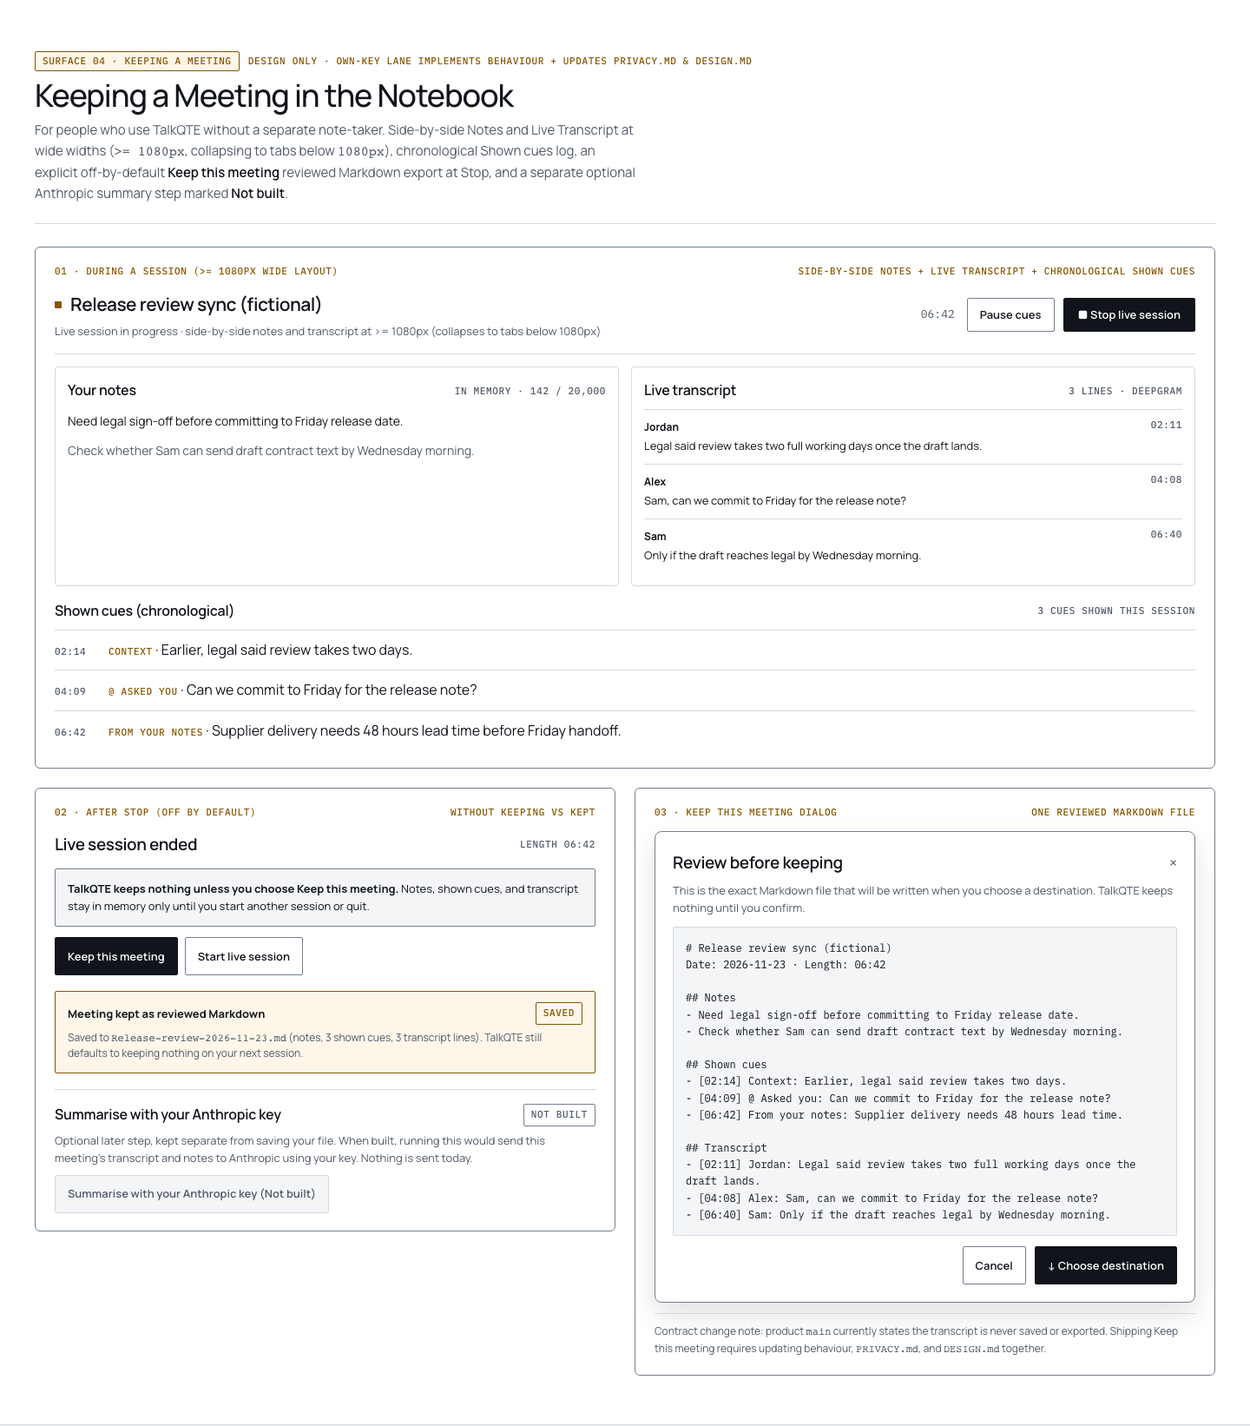
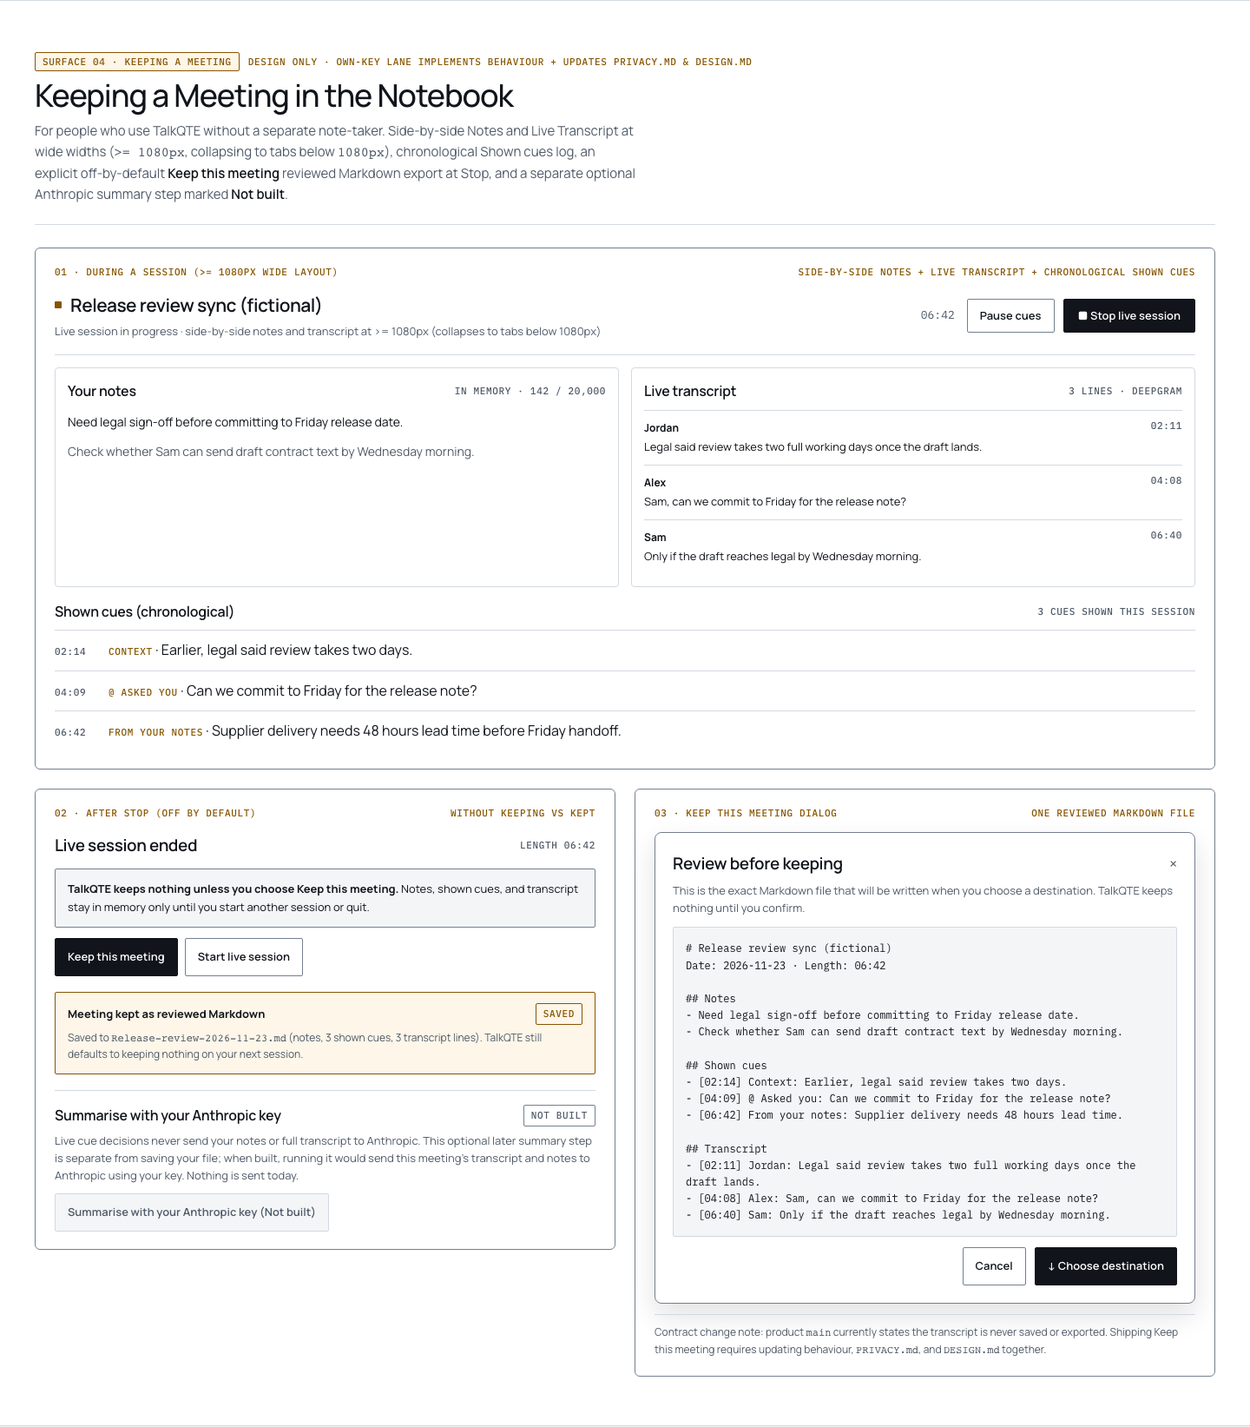
docs(brand): state what each service receives as the own-key PRs do

diff --git a/docs/brand/index.html b/docs/brand/index.html
@@ -3635,7 +3635,7 @@ Open items: sign-off window for contract text, draft handoff date.</pre>
                   <span class="sk-chip is-set">Set</span>
                 </div>
                 <p class="panel-muted" style="margin-top: 6px; max-width: 70ch">
-                  Receives the session's audio, only after you approve cue processing for that session. Billed to your own Deepgram account.
+                  Receives the session's audio (microphone or the chosen application), only after you approve cue processing for that session, at most 120 minutes per session. Billed to your own Deepgram account.
                 </p>
                 <div class="sk-actions">
                   <span class="sk-btn">Test</span>
@@ -3653,7 +3653,7 @@ Open items: sign-off window for contract text, draft handoff date.</pre>
                   <span class="sk-chip">Not set</span>
                 </div>
                 <p class="panel-muted" style="margin-top: 6px; max-width: 70ch">
-                  Receives recent transcript lines and any notes you approve, for cue decisions. Billed to your own Anthropic account.
+                  Receives up to six recent transcript lines (labelled only "Speaker") and any lines the cue on screen cites, the cue on screen, up to four earlier cues with how each ended, and your session name if set; never audio, the full transcript, your notes, imported notes, or focus lines. Billed to your own Anthropic account.
                 </p>
                 <div class="sk-actions">
                   <span class="sk-btn-primary">Add key</span>
@@ -3672,24 +3672,24 @@ Open items: sign-off window for contract text, draft handoff date.</pre>
               <div class="sk-session-box">
                 <div class="sk-row-head">
                   <strong class="panel-h3">This session</strong>
-                  <span class="mono-label" style="color: var(--g-muted)">Active session · local estimate only</span>
+                  <span class="mono-label" style="color: var(--g-muted)">Active session · local estimate only · model never shown</span>
                 </div>
                 <div class="sk-session-grid">
                   <div class="sk-stat">
                     <span class="mono-label" style="color: var(--g-muted)">Anthropic requests</span>
-                    <span class="sk-stat-value">12 of 40</span>
+                    <span class="sk-stat-value">12 of 400</span>
                   </div>
                   <div class="sk-stat">
-                    <span class="mono-label" style="color: var(--g-muted)">Per-session cap</span>
-                    <span class="sk-stat-value">40 requests</span>
+                    <span class="mono-label" style="color: var(--g-muted)">Per-session caps</span>
+                    <span class="sk-stat-value">400 req · $0.50</span>
                   </div>
                   <div class="sk-stat">
                     <span class="mono-label" style="color: var(--g-muted)">Estimated spend</span>
-                    <span class="sk-stat-value">Est. $0.06</span>
+                    <span class="sk-stat-value">Est. $0.03 of $0.50</span>
                   </div>
                 </div>
                 <p class="panel-muted" style="margin-top: 8px; font-size: 12px">
-                  Estimate calculated locally from token counts; not a bill from Anthropic.
+                  Estimate calculated locally from token counts (via <code>cue_usage</code>); not a bill from Anthropic. The model name is never shown here.
                 </p>
               </div>
 
@@ -3699,7 +3699,7 @@ Open items: sign-off window for contract text, draft handoff date.</pre>
                   <span class="mono-label" style="color: var(--g-muted)">No session yet</span>
                 </div>
                 <p class="panel-muted" style="margin-top: 6px">
-                  0 of 40 Anthropic requests · Est. $0.00 (estimate from token counts, not a bill). Counts reset when a new session starts.
+                  0 of 400 requests · est. $0.00 of $0.50 (estimate from token counts, not a bill). Counts reset when a new session starts.
                 </p>
               </div>
             </article>
@@ -3784,7 +3784,7 @@ Open items: sign-off window for contract text, draft handoff date.</pre>
                     <strong style="font-size: 14px">Deepgram · Transcription</strong>
                     <span class="sk-chip is-set">Set</span>
                   </div>
-                  <p class="panel-muted" style="margin-top: 6px; font-size: 12px">Receives the session's audio, only after you approve cue processing for that session. Billed to your own account.</p>
+                  <p class="panel-muted" style="margin-top: 6px; font-size: 12px">Receives the session's audio (microphone or chosen application), only after you approve cue processing, at most 120 minutes per session. Billed to your own account.</p>
                   <div class="sk-actions">
                     <span class="sk-btn">Test</span>
                     <span class="sk-btn">Replace</span>
@@ -3797,7 +3797,7 @@ Open items: sign-off window for contract text, draft handoff date.</pre>
                     <strong style="font-size: 14px">Anthropic · Cue decisions</strong>
                     <span class="sk-chip is-rejected">Rejected</span>
                   </div>
-                  <p class="panel-muted" style="margin-top: 6px; font-size: 12px">Receives recent transcript lines and any notes you approve, for cue decisions. Billed to your own account.</p>
+                  <p class="panel-muted" style="margin-top: 6px; font-size: 12px">Receives up to six recent transcript lines (labelled "Speaker"), cited lines, the cue on screen, up to four earlier cues, and your session name if set; never audio, the full transcript, notes, or focus lines. Billed to your own account.</p>
                   <div class="panel-error-box" style="font-size: 12px">Refused by the service.</div>
                   <div class="sk-actions">
                     <span class="sk-btn">Test</span>
@@ -3808,12 +3808,12 @@ Open items: sign-off window for contract text, draft handoff date.</pre>
 
                 <div class="sk-session-box" style="margin-top: 10px; padding: 12px">
                   <strong style="font-size: 13px">This session</strong>
-                  <p class="panel-muted" style="margin-top: 4px; font-size: 12px; font-family: var(--font-mono)">12 of 40 requests · Est. $0.06</p>
-                  <p class="panel-muted" style="margin-top: 4px; font-size: 11px">Estimate from token counts; not a bill.</p>
+                  <p class="panel-muted" style="margin-top: 4px; font-size: 12px; font-family: var(--font-mono)">12 of 400 requests · est. $0.03 of $0.50</p>
+                  <p class="panel-muted" style="margin-top: 4px; font-size: 11px">Estimate from token counts; not a bill. Model never shown.</p>
                 </div>
               </div>
               <p class="panel-footer-line">
-                Component boundary: one new component <code>src/components/ServiceKeys.tsx</code> + <code>src/components/service-keys.css</code>, mounted as one <code>&lt;section className="setting"&gt;</code> in <code>src/App.tsx</code> directly after Live transcription.
+                Component boundary: one new component <code>src/components/ServiceKeys.tsx</code> + <code>src/components/service-keys.css</code>, mounted as one <code>&lt;section className="setting"&gt;</code> in <code>src/App.tsx</code> directly after Live transcription. Commands: <code>provider_keys_status</code>, <code>set_provider_key</code>, <code>test_provider_key</code>, <code>remove_provider_key</code>, event <code>provider-keys:changed</code>, and <code>cue_usage</code>.
               </p>
             </article>
           </div>
@@ -3890,7 +3890,7 @@ Open items: sign-off window for contract text, draft handoff date.</pre>
                             <strong style="font-size: 14px">Use your own keys</strong>
                             <span class="sk-chip is-set">Active · BYOK</span>
                           </div>
-                          <p class="panel-muted" style="margin-top: 6px; font-size: 12px">Add your own Deepgram and Anthropic keys in the next step. Audio and approved text go directly from your Mac to those providers.</p>
+                          <p class="panel-muted" style="margin-top: 6px; font-size: 12px">Add your own Deepgram and Anthropic keys in the next step. Audio and short recent transcript excerpts go directly from your Mac to those providers.</p>
                         </div>
                         <div class="ob-way" aria-disabled="true">
                           <div class="sk-row-head">
@@ -3978,7 +3978,7 @@ Open items: sign-off window for contract text, draft handoff date.</pre>
                         <span class="sk-chip is-set">Set</span>
                       </div>
                       <p class="panel-muted" style="margin-top: 4px; font-size: 12px"><strong>Where to get one:</strong> Deepgram Console (console.deepgram.com) → API Keys. No link is fetched by TalkQTE.</p>
-                      <p class="panel-muted" style="margin-top: 4px; font-size: 12px">Receives the session's audio, only after you approve cue processing for that session. Billed to your own Deepgram account.</p>
+                      <p class="panel-muted" style="margin-top: 4px; font-size: 12px">Receives the session's audio (microphone or the chosen application), only after you approve cue processing for that session, at most 120 minutes per session. Billed to your own Deepgram account.</p>
                       <div class="sk-actions">
                         <span class="sk-btn">Test</span>
                         <span class="sk-btn">Replace</span>
@@ -3992,7 +3992,7 @@ Open items: sign-off window for contract text, draft handoff date.</pre>
                         <span class="sk-chip is-rejected">Rejected</span>
                       </div>
                       <p class="panel-muted" style="margin-top: 4px; font-size: 12px"><strong>Where to get one:</strong> Anthropic Console (console.anthropic.com) → API Keys. No link is fetched by TalkQTE.</p>
-                      <p class="panel-muted" style="margin-top: 4px; font-size: 12px">Receives recent transcript lines and any notes you approve, for cue decisions. Billed to your own Anthropic account.</p>
+                      <p class="panel-muted" style="margin-top: 4px; font-size: 12px">Receives up to six recent transcript lines (labelled only "Speaker") and any lines the cue on screen cites, the cue on screen, up to four earlier cues with how each ended, and your session name if set; never audio, the full transcript, your notes, imported notes, or focus lines. Billed to your own Anthropic account.</p>
                       <div class="panel-error-box" style="font-size: 12px">Refused by the service. Check the key in your Anthropic account and replace it, or skip for now.</div>
                       <div class="sk-actions">
                         <span class="sk-btn">Test</span>
@@ -4167,7 +4167,7 @@ Open items: sign-off window for contract text, draft handoff date.</pre>
                       <span class="mono-label" style="color: var(--g-amber-ink)">Per-session approval sequence</span>
                       <ol style="margin: 8px 0 0 18px; font-size: 13px; line-height: 1.6; color: var(--g-ink)">
                         <li><strong>Start live session</strong> opens the floating dock and starts local capture only. Audio captured before approval is discarded.</li>
-                        <li><strong>Review processing → Review selected sources → Enable for this session</strong> names both services explicitly: <strong>Deepgram</strong> (session audio for transcription) and <strong>Anthropic</strong> (recent transcript lines and selected notes for cue decisions).</li>
+                        <li><strong>Review processing → Review selected sources → Enable for this session</strong> names both services explicitly: <strong>Deepgram</strong> (session audio from your microphone or chosen application, at most 120 minutes per session) and <strong>Anthropic</strong> (up to six recent transcript lines labelled only "Speaker", any lines the cue on screen cites, the cue on screen, up to four earlier cues with how each ended, and your session name if set; never audio, the full transcript, your notes, imported notes, or focus lines).</li>
                         <li><strong>Stop</strong> ends the session, releases the microphone or application audio source, and stops sending.</li>
                       </ol>
                     </div>
@@ -4397,7 +4397,7 @@ Open items: sign-off window for contract text, draft handoff date.</pre>
                   <span class="sk-chip">Not built</span>
                 </div>
                 <p class="panel-muted" style="margin-top: 6px">
-                  Optional later step, kept separate from saving your file. When built, running this would send this meeting's transcript and notes to Anthropic using your key. Nothing is sent today.
+                  Live cue decisions never send your notes or full transcript to Anthropic. This optional later summary step is separate from saving your file; when built, running it would send this meeting's transcript and notes to Anthropic using your key. Nothing is sent today.
                 </p>
                 <div class="sk-actions">
                   <span class="sk-btn is-disabled">Summarise with your Anthropic key (Not built)</span>
@@ -4472,8 +4472,8 @@ Date: 2026-11-23 · Length: 06:42
               </p>
               <ul class="tw-points">
                 <li>Add your own Deepgram and Anthropic keys in Settings, stored in the macOS Keychain.</li>
-                <li>Audio and approved text go directly from your Mac to Deepgram and Anthropic after per-session approval.</li>
-                <li>Pay each provider directly; the app shows a per-session request cap and local spend estimate.</li>
+                <li>Audio and short recent transcript excerpts go directly from your Mac to Deepgram and Anthropic after per-session approval (never your notes, imported notes, or focus lines).</li>
+                <li>Pay each provider directly; the app shows per-session caps (400 requests and est. $0.50) and local spend estimate.</li>
                 <li>Build from source on macOS; no signed release or installer yet.</li>
               </ul>
               <span class="sm-text-link">Build from source on GitHub</span>
@@ -4489,7 +4489,7 @@ Date: 2026-11-23 · Length: 06:42
               </p>
               <ul class="tw-points">
                 <li>No separate Deepgram or Anthropic accounts or API keys to manage.</li>
-                <li>Audio and approved text would pass through TalkQTE's service as well as the transcription and cue providers.</li>
+                <li>Audio and short recent transcript excerpts would pass through TalkQTE's service as well as the transcription and cue providers.</li>
                 <li>Not available yet: no price, release date, or extra feature promise beyond managed keys and usage.</li>
               </ul>
               <span class="sm-text-link">Email to hear when it is ready (connor@seatbeltlabs.com)</span>

diff --git a/docs/brand/BRAND_GUIDE.md b/docs/brand/BRAND_GUIDE.md
@@ -219,10 +219,10 @@ The notebook moves from warm cream and rounded green pills onto pure white (`#FF
 
 - **Rows:** Two rows, **Deepgram** (transcription) and **Anthropic** (cue decisions). Each displays only its state (`Not set`, `Set`, `Checking…`, or `Rejected` with plain reason: *"Refused by the service."* or *"Could not reach the service."*). Actions: `Add key` when not set; `Test`, `Replace`, and `Remove` when set or rejected. `Remove` opens an inline confirmation row (`Remove <Provider> key?` with `Cancel` and `Remove key`). Key entry uses `<input type="password">` (`Save key` disabled while empty); saving writes to the macOS Keychain, clears the input immediately, and never shows the key again. While `Checking…`, all row action buttons are disabled.
 - **Data statements under each row:**
-  - Deepgram: *"Receives the session's audio, only after you approve cue processing for that session. Billed to your own Deepgram account."*
-  - Anthropic: *"Receives recent transcript lines and any notes you approve, for cue decisions. Billed to your own Anthropic account."*
-- **This session block:** Displays Anthropic requests sent (`12 of 40`), per-session cap (`40 requests`), and local estimated spend (`Est. $0.06`), explicitly labelled *"Estimate calculated locally from token counts; not a bill from Anthropic."* Empty state before any session: *"No session yet · 0 of 40 Anthropic requests · Est. $0.00 (estimate from token counts, not a bill)."*
-- **Component boundary:** One new component `src/components/ServiceKeys.tsx` with its own stylesheet `src/components/service-keys.css`, mounted at one mount point in `src/App.tsx`: a new `<section className="setting">` in Settings directly after `"Live transcription"`. The own-key lane implements the plain functional component; the notebook branch applies these Direction C tokens once it exists.
+  - Deepgram: *"Receives the session's audio (microphone or the chosen application), only after you approve cue processing for that session, at most 120 minutes per session. Billed to your own Deepgram account."*
+  - Anthropic: *"Receives up to six recent transcript lines (labelled only 'Speaker') and any lines the cue on screen cites, the cue on screen, up to four earlier cues with how each ended, and your session name if set; never audio, the full transcript, your notes, imported notes, or focus lines. Billed to your own Anthropic account."*
+- **This session block:** Reads `cue_usage` (`{ model, requests, requestCap, spentMicroUsd, spendCapMicroUsd }`, PR #411) and displays Anthropic requests sent against the cap (`12 of 400 requests`) and local estimated spend against the spend cap (`est. $0.03 of $0.50`), explicitly labelled *"Estimate calculated locally from token counts; not a bill from Anthropic."* **The session block never shows the `model` name.** Empty state before any session: *"No session yet · 0 of 400 requests · est. $0.00 of $0.50 (estimate from token counts, not a bill)."*
+- **Component boundary:** One new component `src/components/ServiceKeys.tsx` with its own stylesheet `src/components/service-keys.css`, mounted at one mount point in `src/App.tsx`: a new `<section className="setting">` in Settings directly after `"Live transcription"`. Uses the real own-key commands (`provider_keys_status`, `set_provider_key`, `test_provider_key`, `remove_provider_key`, event `provider-keys:changed` from PR #408, and `cue_usage` from PR #411). The own-key lane implements the plain functional component; the notebook branch applies these Direction C tokens once it exists.
 
 ---
 
@@ -242,7 +242,7 @@ Shown inside the notebook window (in place of the notebook body) when no service
   - Pressing `Escape` opens a focus-trapped **Skip setup for now?** confirmation dialog (`Keep setting up` / `Skip setup`).
   - `prefers-reduced-motion: reduce` applies zero transitions (`transition: none; animation: none;`).
   - Zero one-sided accent borders; `1320 × 880` notebook frame and `390px` narrow stacked layout both maintain `44px` minimum targets and zero horizontal overflow.
-- **Component boundary and typed stub interface:** One new component `src/components/Onboarding.tsx` with its own stylesheet `src/components/onboarding.css`, mounted at one mount point in `src/App.tsx` in place of the notebook body while active (plus one Settings row `"Set up TalkQTE again"`). Until the own-key lane's first PR lands, build against this stub interface:
+- **Component boundary and typed command interface:** One new component `src/components/Onboarding.tsx` with its own stylesheet `src/components/onboarding.css`, mounted at one mount point in `src/App.tsx` in place of the notebook body while active (plus one Settings row `"Set up TalkQTE again"`). Uses the real own-key commands from PR #408 (`provider_keys_status`, `set_provider_key`, `test_provider_key`, `remove_provider_key`, event `provider-keys:changed`) and PR #411 (`cue_usage`, whose `model` field is never rendered in the UI):
 
 ```ts
 export type KeyProvider = 'deepgram' | 'anthropic';
@@ -257,16 +257,26 @@ export type KeyState =
       message: string;
     };
 
-export interface KeysStatusSnapshot {
+export interface ProviderKeysStatus {
   deepgram: KeyState;
   anthropic: KeyState;
 }
 
+export interface CueUsageSnapshot {
+  model: string; // Never rendered in This session or Settings UI.
+  requests: number;
+  requestCap: number; // 400
+  spentMicroUsd: number;
+  spendCapMicroUsd: number; // 500_000 ($0.50)
+}
+
 export interface ServiceKeysBridge {
-  keys_status(): Promise<KeysStatusSnapshot>;
-  keys_set(provider: KeyProvider, secret: string): Promise<KeyState>;
-  keys_test(provider: KeyProvider): Promise<KeyState>;
-  keys_remove(provider: KeyProvider): Promise<KeyState>;
+  provider_keys_status(): Promise<ProviderKeysStatus>;
+  set_provider_key(provider: KeyProvider, secret: string): Promise<KeyState>;
+  test_provider_key(provider: KeyProvider): Promise<KeyState>;
+  remove_provider_key(provider: KeyProvider): Promise<KeyState>;
+  cue_usage(): Promise<CueUsageSnapshot>;
+  // Emitted by Rust whenever key state changes: 'provider-keys:changed'
 }
 ```
 
@@ -279,7 +289,7 @@ Designed for people who use TalkQTE on its own without a separate note-taker (su
   - **Without keeping (default):** Ended session strip shows the plain notice, notes that data clears on next session or quit, and offers `Keep this meeting` and `Start live session`.
   - **Review dialog (`Keep this meeting`):** Opens a modal dialog previewing the single combined Markdown document (`# Notes`, `## Shown cues`, `## Transcript`) before the user chooses a file destination (`Cancel` / `Choose destination`).
   - **With keeping (saved):** Confirms the reviewed Markdown filename written to disk while noting that the next session still defaults to keeping nothing.
-- **Optional later step (`Not built`):** A clearly separated section below a neutral `1px` divider offers **`Summarise with your Anthropic key`**, visibly badged **`Not built`** with a disabled control and plain text stating that when built it would send the session's transcript and notes to Anthropic using the user's key, and that nothing is sent today.
+- **Optional later step (`Not built`):** A clearly separated section below a neutral `1px` divider offers **`Summarise with your Anthropic key`**, visibly badged **`Not built`** with a disabled control and plain text stating that live cue decisions never send your notes or full transcript to Anthropic, whereas this separate unbuilt summary step would send the session's transcript and notes to Anthropic using the user's key, and nothing is sent today.
 - **Required documentation & contract update:** Product `main` currently states that the live transcript is never saved or exported. Implementing **Keep this meeting** changes that contract; the own-key lane must update `PRIVACY.md` and `DESIGN.md` alongside the behaviour before shipping.
 
 ### 9.3 Two Ways to Use TalkQTE (Naming Proposal & Specimen)
